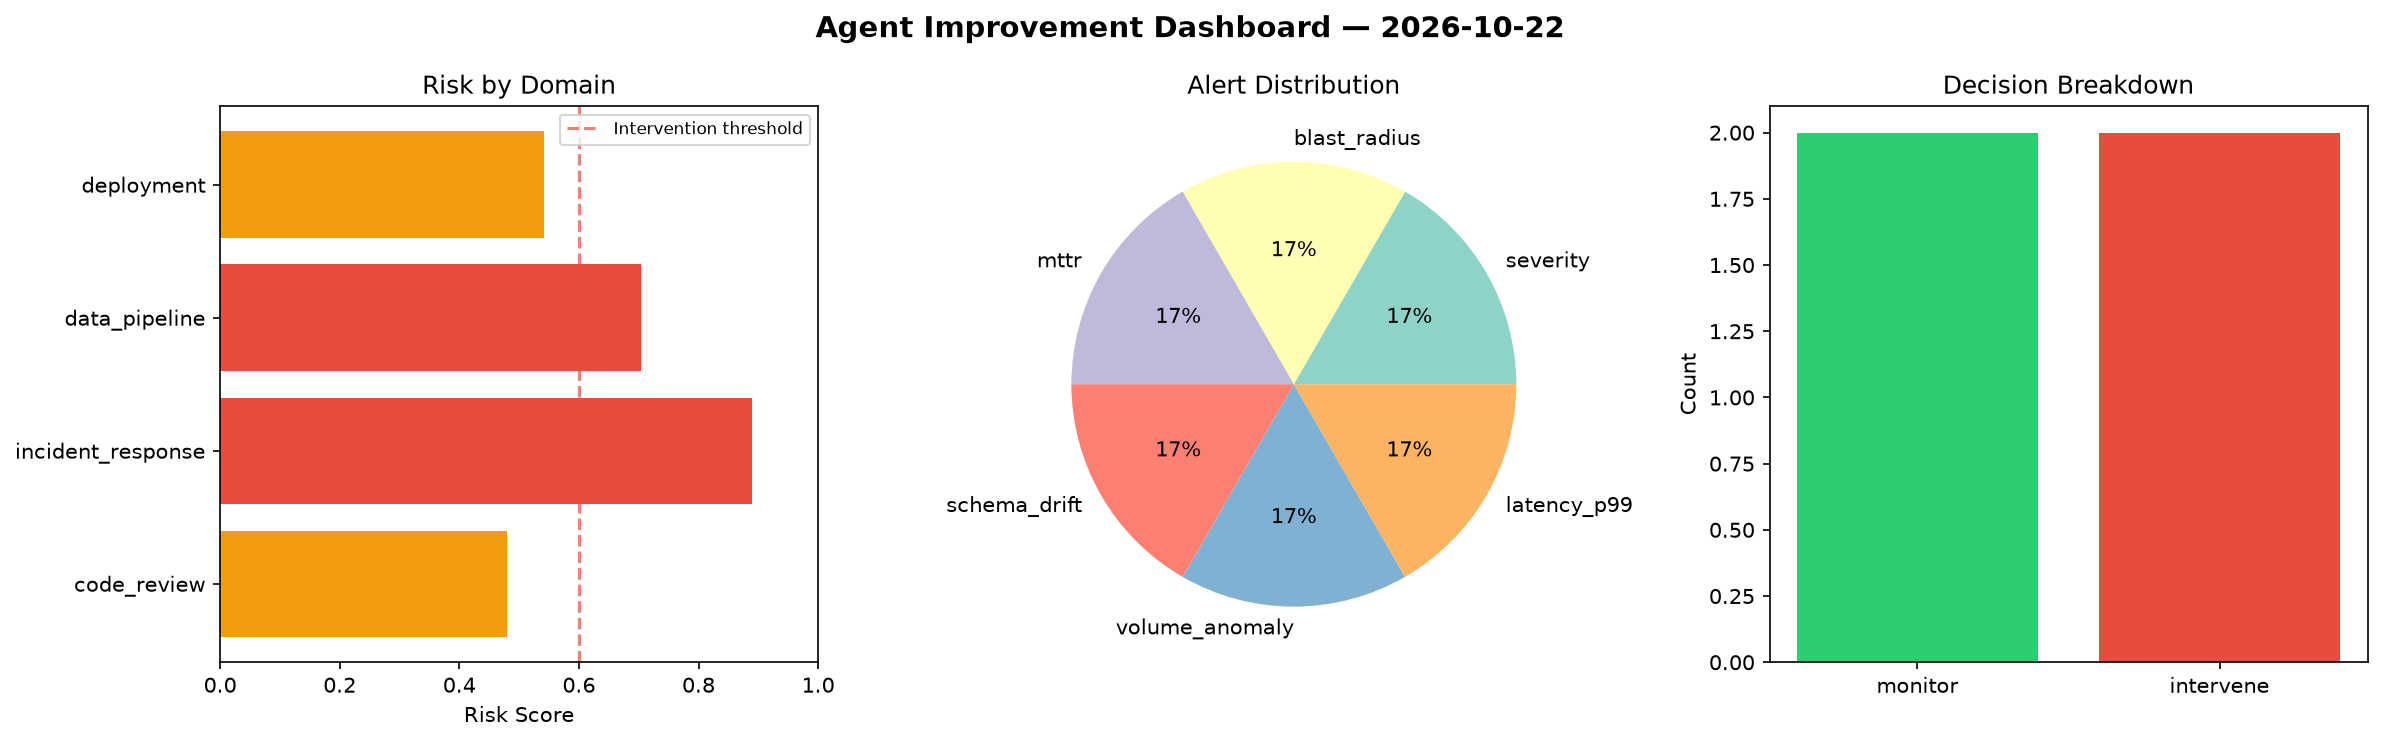
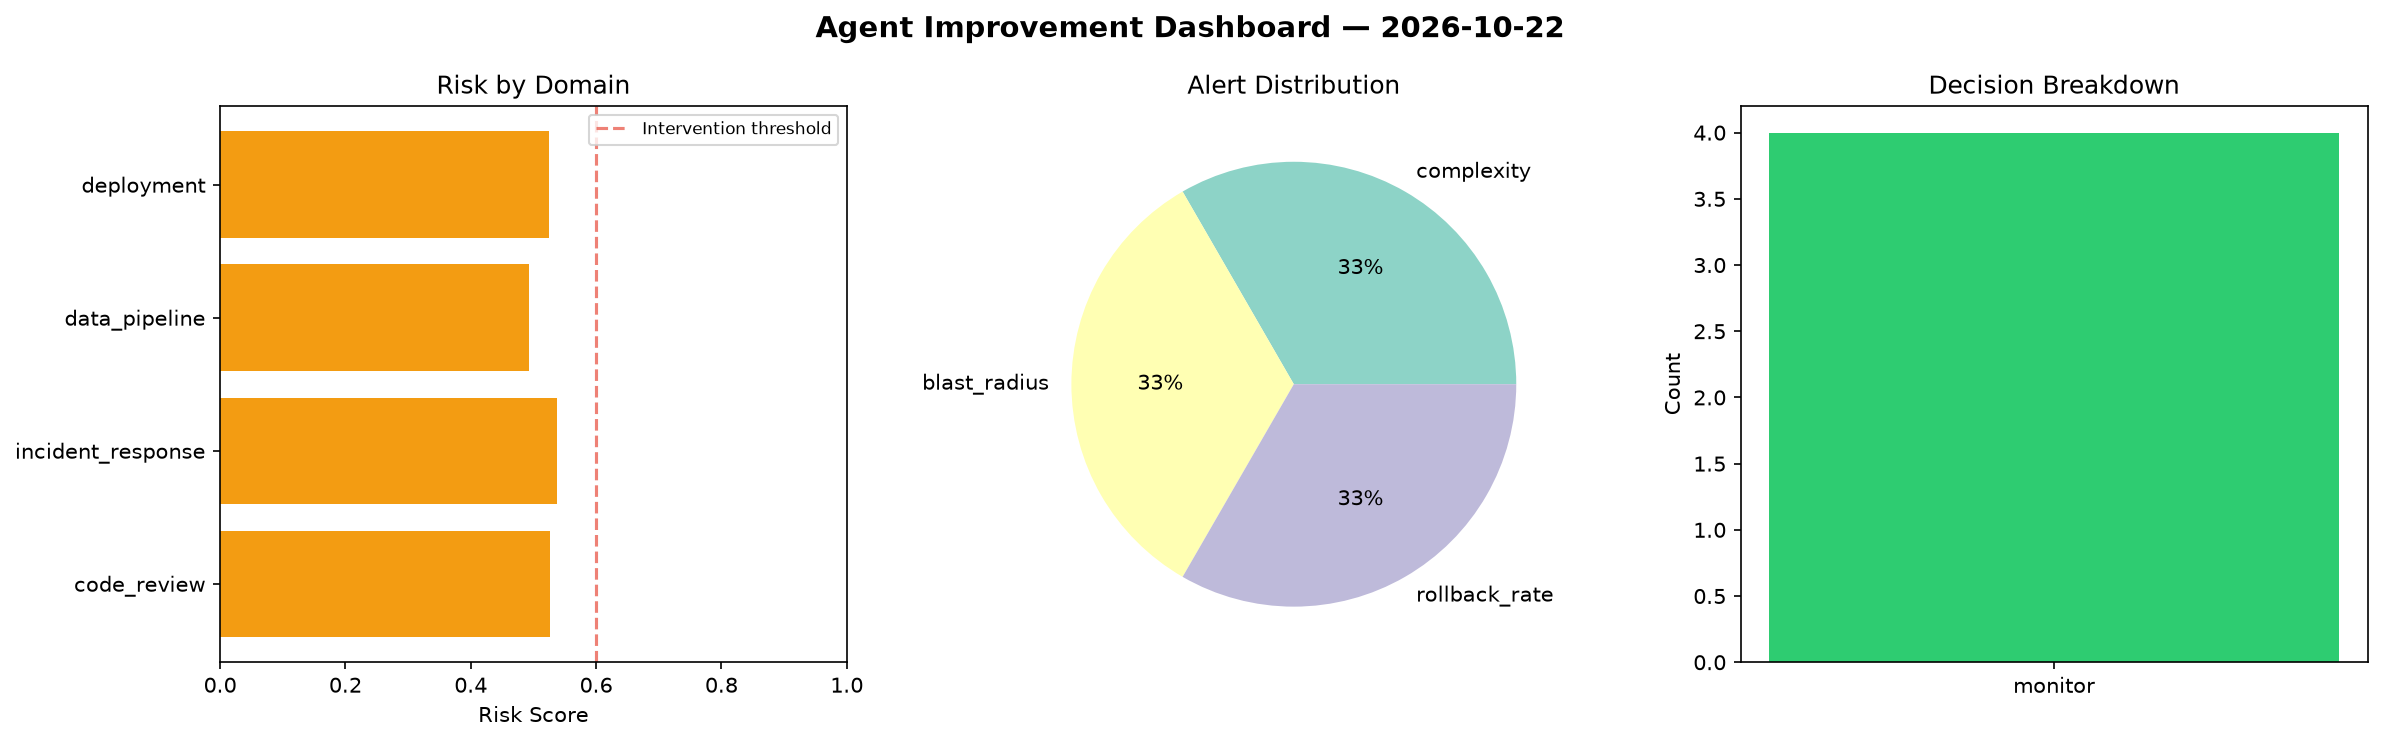
agent-improvement: daily cycle 2026-10-22T23:21

diff --git a/logs/2026-10-22.md b/logs/2026-10-22.md
@@ -1,6 +1,6 @@
 # Agent Improvement Report — 2026-10-22
 
-**Cycle ID:** `4e471dc2` | **Avg Risk:** 0.6534 | **Interventions:** 2/4
+**Cycle ID:** `152f7677` | **Avg Risk:** 0.5205 | **Interventions:** 0/4
 
 ![Dashboard](2026-10-22_dashboard.png)
 
@@ -10,18 +10,18 @@
 
 | Domain | Risk Score | Decision | Alerts |
 |--------|-----------|----------|--------|
-| code_review | 0.4791 | monitor | none |
-| incident_response | 0.8892 | intervene | severity, blast_radius, mttr |
-| data_pipeline | 0.7043 | intervene | schema_drift, volume_anomaly |
-| deployment | 0.5411 | monitor | latency_p99 |
+| code_review | 0.527 | monitor | complexity |
+| incident_response | 0.5378 | monitor | blast_radius |
+| data_pipeline | 0.493 | monitor | none |
+| deployment | 0.5244 | monitor | rollback_rate |
 
 ## Delta vs Yesterday
 
 | Domain | Today | Yesterday | Change |
 |--------|-------|-----------|--------|
-| code_review | 0.4791 | 0.4495 | 📈 6.6% |
-| incident_response | 0.8892 | 0.5758 | 📈 54.4% |
-| data_pipeline | 0.7043 | 0.7339 | 📉 -4.0% |
-| deployment | 0.5411 | 0.5448 | 📉 -0.7% |
+| code_review | 0.527 | 0.4495 | 📈 17.2% |
+| incident_response | 0.5378 | 0.5758 | 📉 -6.6% |
+| data_pipeline | 0.493 | 0.7339 | 📉 -32.8% |
+| deployment | 0.5244 | 0.5448 | 📉 -3.7% |
 
-**Refinement:** `{'adjustment': 'tighten_thresholds', 'trend': 'degrading', 'window': 4}`
+**Refinement:** `{'adjustment': 'maintain', 'trend': 'improving', 'window': 4}`
